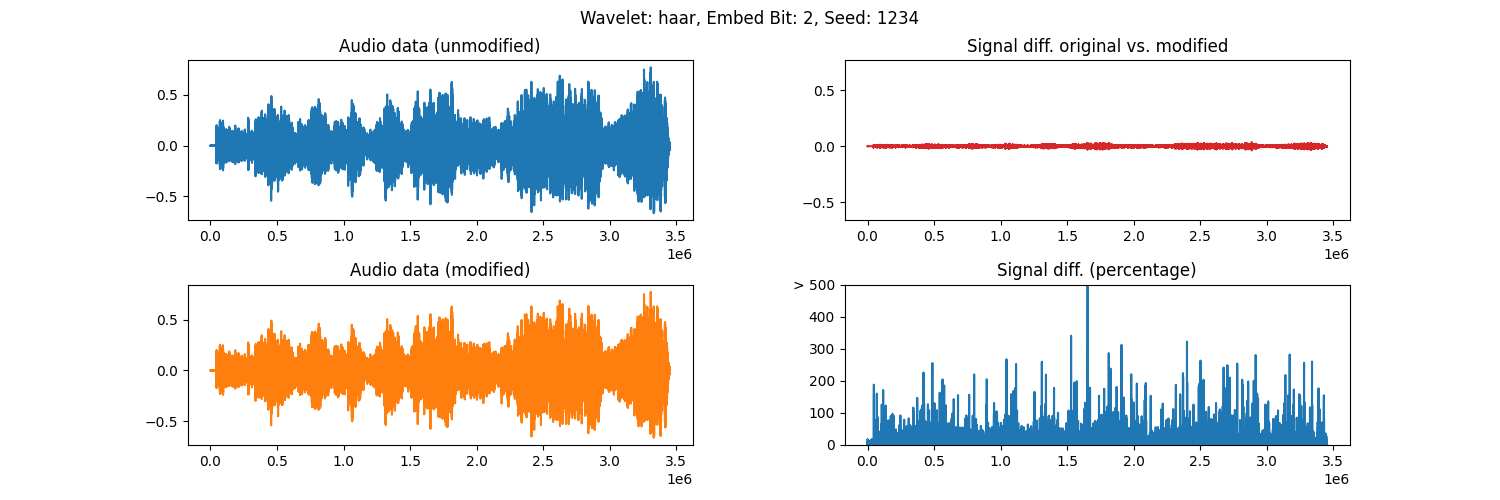
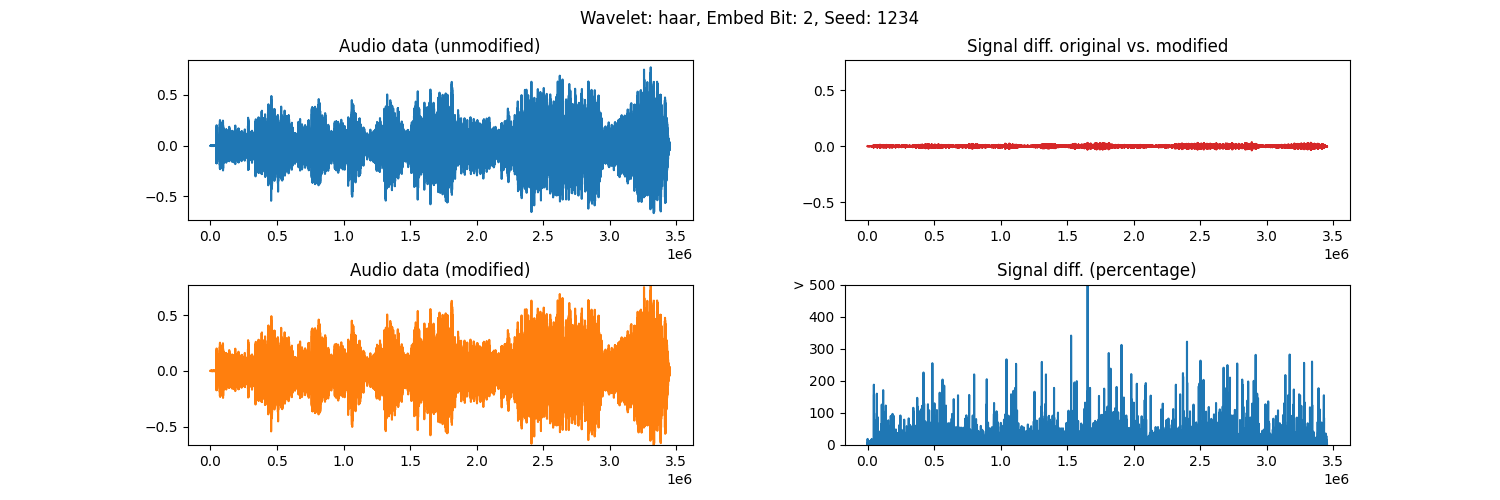
Small changes :)

diff --git a/dwt_plotter.py b/dwt_plotter.py
@@ -1,6 +1,7 @@
 import pywt
 from scipy.io import wavfile
 import matplotlib.pyplot as plt
+import matplotlib as mpl
 import numpy as np
 from embedder import Embedder
 from detector import Detector
@@ -87,8 +88,10 @@ def plot_master(audio_file, difference_array):
 
 
 def plot_master_2(emb: Embedder, det: Detector, file_title: str, message_seed: int = None):
+    mpl.rcParams['agg.path.chunksize'] = 10000
     og_signal_data = emb.cover_audio_file.signal_data.T[0]          # [0] for channel 1
     emb_signal_data = emb.reconstructed_audio.signal_data[0]        # [0] for channel 1
+    det_signal_data = det.audio_file.signal_data.T[0]
 
     wavelet_type = emb.wavelet_type
     embed_bit = emb.embed_bit
@@ -98,8 +101,8 @@ def plot_master_2(emb: Embedder, det: Detector, file_title: str, message_seed: i
     emb_detail_coeffs = emb.marked_detail_coeffs[0]
     det_detail_coeffs = det.detail_coeffs[0]
 
-    diff_sig_og_emb = og_signal_data - emb_signal_data
-    diff_percentage = percentage.percentage_wav_2(og_signal_data, emb_signal_data)
+    diff_sig_og_emb = og_signal_data - det_signal_data
+    diff_percentage = percentage.percentage_wav_2(og_signal_data, det_signal_data)
 
     fig, axs = plt.subplots(2, 2, figsize=(15, 5))
     fig.suptitle(f'Wavelet: {wavelet_type}, Embed Bit: {embed_bit}, Seed: {message_seed}')
@@ -109,8 +112,9 @@ def plot_master_2(emb: Embedder, det: Detector, file_title: str, message_seed: i
     axs[0][0].set_title('Audio data (unmodified)')
 
     # plot signal data from embedded file
-    axs[1][0].plot(emb_signal_data, 'tab:orange')
+    axs[1][0].plot(det_signal_data, 'tab:orange')
     axs[1][0].set_title('Audio data (modified)')
+    axs[1][0].set_ylim(min(og_signal_data), max(og_signal_data))
 
     # plot differences
     axs[0][1].plot(diff_sig_og_emb, 'tab:red')

diff --git a/percentage.py b/percentage.py
@@ -70,7 +70,7 @@ def percentage_wav_2(audio_org, audio_mod):
         if org[i] == 0:
             value = 0.0     # cant calculate percentage increase from 0
         elif mod[i] == 0:
-            value = 100     # if modified coefficient is 0, the change to coefficient is 100%
+            value = 100    # if modified coefficient is 0, the change to coefficient is 100%
         else:
             # value = abs(100 - (mod_x[i] / org_y[i]) * 100)
             value = abs((1-mod[i]/org[i]))

diff --git a/test.py b/test.py
@@ -33,7 +33,7 @@ message = AudioFile.generate_random_message(message_length, seed)
 
 for wavelet_type in wavelet_list:
     error_rates = {}
-    for emb_bit in range(2, 17):
+    for emb_bit in range(1, 17):
         # instantiate embedder who automatically creates output-file with message embedded (in channel 1)
         e = Embedder(input_f, wavelet_type=wavelet_type, msg=message, output_file_name=f'output_files/test_output.wav',
                      embed_bit=emb_bit)
